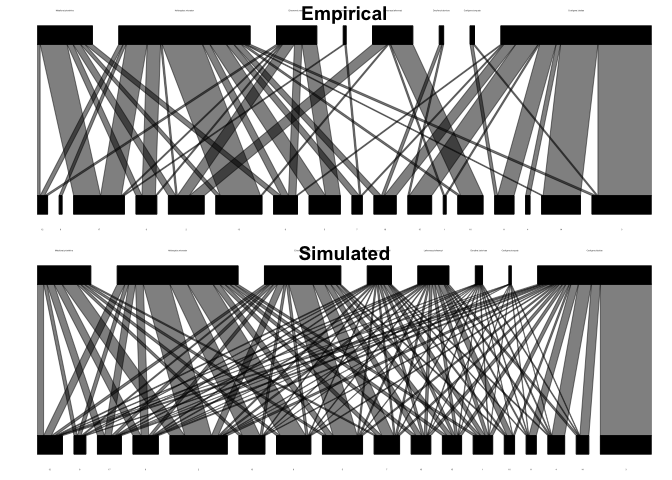
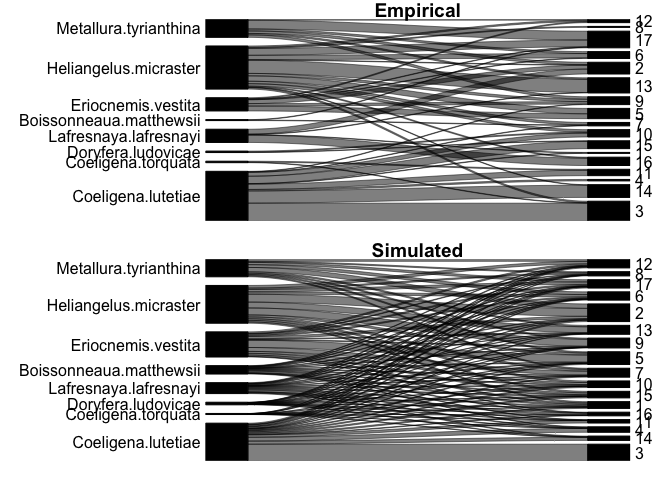
revising readme

diff --git a/Readme.md b/Readme.md
@@ -2,8 +2,9 @@ HumPlant R package
 ================
 2025-02-14
 
-- [Visualising community structure aming interacting hummingbirds and
-  plants](#visualising-community-structure-aming-interacting-hummingbirds-and-plants)
+- [Visualising ecological mechanisms affecting interacting hummingbirds
+  and
+  plants](#visualising-ecological-mechanisms-affecting-interacting-hummingbirds-and-plants)
   - [Installing the package](#installing-the-package)
   - [Taking a look at the data](#taking-a-look-at-the-data)
   - [Defining models for how morphologies influence the species’
@@ -22,11 +23,11 @@ HumPlant R package
     versions](#model-selection-with-varying-predictor-versions)
 - [References](#references)
 
-## Visualising community structure aming interacting hummingbirds and plants
+## Visualising ecological mechanisms affecting interacting hummingbirds and plants
 
 The following script will guide you through examples of how to model
-mechanisms, such as morphological matching, and visualise their effects
-on species interactions.
+ecological mechanisms, such as morphological matching, and visualise
+their effects on species interactions.
 
 ### Installing the package
 
@@ -91,7 +92,7 @@ species are sorted according to the length of their bill/flowers from
 the shortest bills/flowers on the left to the longest on the right.
 
 ``` r
-plotweb(net,sorting="normal",empty = F)
+plotweb(net,sorting="normal",empty = F,horizontal = TRUE, curved_links = TRUE,text_size=1)
 ```
 
 ![](Readme_files/figure-gfm/unnamed-chunk-5-1.png)<!-- -->
@@ -123,8 +124,8 @@ specifically formulate your hypotheses.
 The first is based on the ‘forbidden links’ concept in which species are
 prevented from visiting certain partners in the community. In this case,
 hummingbirds are prevented from visiting flowers that are longer than
-their bill + tounge length. The tounge length is defined as a fraction
-of the total bill length.
+their bill + tounge length. Here, The tounge length is estimated as a
+fraction of the total bill length.
 
 The second model is derived from optimal foraging theory, where
 hummingbirds should prefer visiting flowers that are morphologically
@@ -214,13 +215,13 @@ sim_net_morph=simulate_ZI_matrix(
 ```
 
     ##                   Nestedness Complementary specialization 
-    ##                   23.5254456                    0.2932624
+    ##                   23.5254456                    0.2932752
 
 Now, let’s take a look at the simulated network. Does the structure
 coincide with your expectations and what could be improved?
 
 ``` r
-plotweb(sim_net_morph,sorting="normal",empty = F)
+plotweb(sim_net_morph,sorting="normal",empty = F,horizontal = TRUE, curved_links = TRUE,text_size=1)
 ```
 
 ![](Readme_files/figure-gfm/unnamed-chunk-11-1.png)<!-- -->
@@ -274,12 +275,12 @@ sim_net_abund=simulate_ZI_matrix(
                            #A matrix of probabilities for two individual species to have any interactions 
                            W_bin=unit,         
                            #A matrix of weights proportional the species interaction frequencies
-                           W_freq=abundance_matrix,       
+                           W_freq=abundance_matrix^2,       
                            ) 
 ```
 
     ##                   Nestedness Complementary specialization 
-    ##                     34.18082                      0.00000
+    ##                     43.62147                      0.00000
 
 Let’s plot it! Do you recognize this structure? For clarity, we orde the
 species in the network according to their abundance. The rarest left,
@@ -289,7 +290,7 @@ and the most common species is on the right.
 sim_net_abund=sim_net_abund[order(plant_abund),]
 sim_net_abund=sim_net_abund[,order(hum_abund)]
 
-plotweb(sim_net_abund,sorting="normal",empty = F)
+plotweb(sim_net_abund,sorting="normal",empty = F,horizontal = TRUE, curved_links = TRUE,text_size=1)
 ```
 
 ![](Readme_files/figure-gfm/unnamed-chunk-15-1.png)<!-- -->
@@ -327,16 +328,15 @@ sim_net_morph_abund=simulate_ZI_matrix(
     ##                   26.5211540                    0.4539045
 
 ``` r
-plotweb(sim_net_morph_abund,sorting ="normal",empty = F)
+plotweb(sim_net_morph_abund,sorting ="normal",empty = F,horizontal = TRUE, curved_links = TRUE,text_size=1)
 ```
 
 ![](Readme_files/figure-gfm/unnamed-chunk-16-1.png)<!-- -->
 
 ## Additional ecological models
 
-Below I compile additional ecological models suggested by you. The first
-is a suggestion inspired by one of our discussions. I also include some
-used in previous papers
+Below are additional ecological models suggested by previous students.
+You are welcome to include them in your project
 
 ``` r
 # plants become increasingly attractive if they have few morphologically mathing partners
@@ -488,12 +488,12 @@ head(result)
 ```
 
     ##        AIC tongue_matching tongue_barrier   c1   c2   c3
-    ## 2 8550.956             0.5            1.8 1.43 1.92 0.94
-    ## 3 8871.508             0.5            1.8 0.92 1.90 0.67
-    ## 4 8210.031             0.5            1.8 1.42 1.53 1.58
-    ## 5 7732.240             0.5            1.8 0.76 0.89 1.59
-    ## 6 8843.955             0.5            1.8 1.67 0.39 0.61
-    ## 7 8220.373             0.5            1.8 0.30 0.99 1.85
+    ## 2 9650.230             0.5            1.8 0.38 1.89 1.11
+    ## 3 8407.285             0.5            1.8 0.67 1.28 1.81
+    ## 4 8972.617             0.5            1.8 1.89 0.61 1.89
+    ## 5 7768.301             0.5            1.8 1.06 0.92 1.31
+    ## 6 8208.186             0.5            1.8 0.73 1.50 0.22
+    ## 7 7963.152             0.5            1.8 0.50 1.13 0.97
 
 Now, we can visualise the best-fitting models and determine the optimal
 tongue lengths and c-values, if they exist. Since the previous function
@@ -606,8 +606,8 @@ simulate <- replicate(100, mgen(prep_predictors(preds),n = sum(net),keep.species
 simulate=Reduce("+", simulate) / length(simulate);simulate[which(simulate<0.1)]=0
 
 
-plotweb(net,sorting = "normal");title(main ="Empirical")
-plotweb(simulate,sorting = "normal");title(main ="Simulated")
+plotweb(net,sorting = "normal",horizontal = TRUE, curved_links = TRUE,text_size=1);title(main ="Empirical")
+plotweb(simulate,sorting = "normal",horizontal = TRUE, curved_links = TRUE,text_size=1);title(main ="Simulated")
 ```
 
 ![](Readme_files/figure-gfm/unnamed-chunk-22-1.png)<!-- -->
